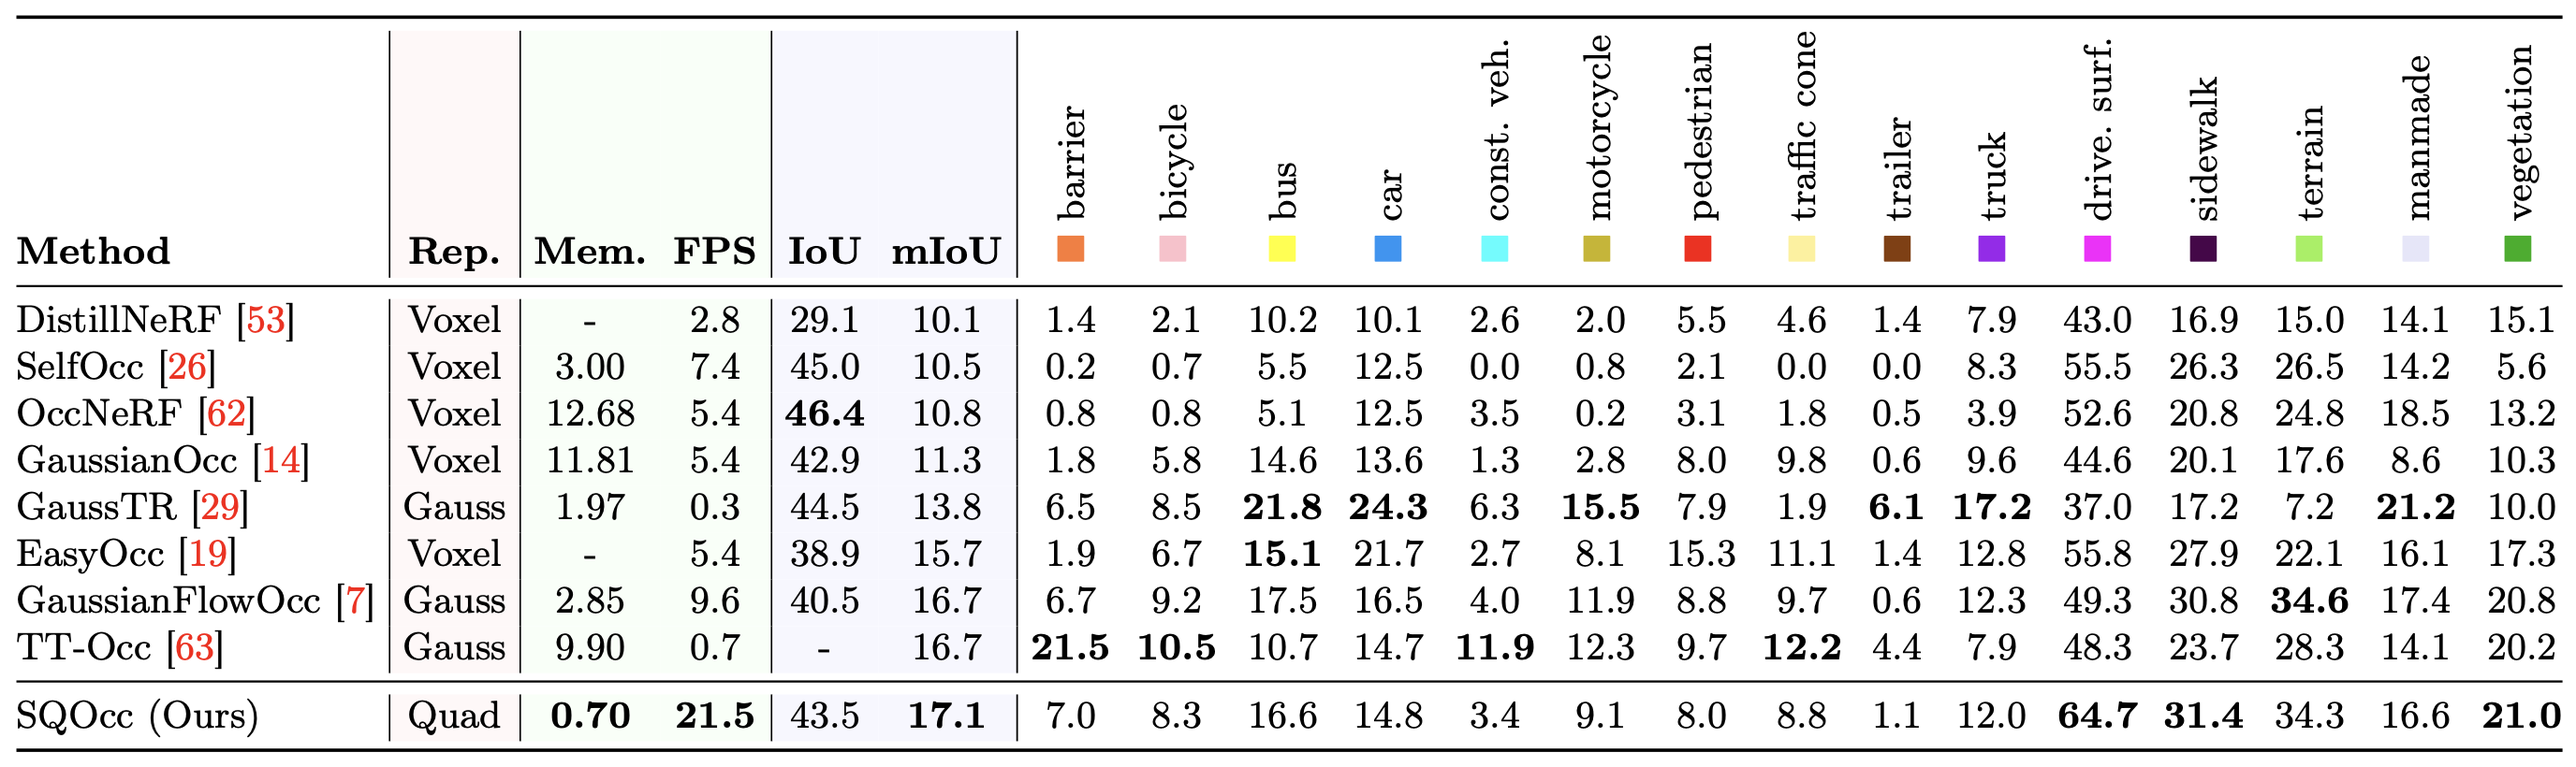
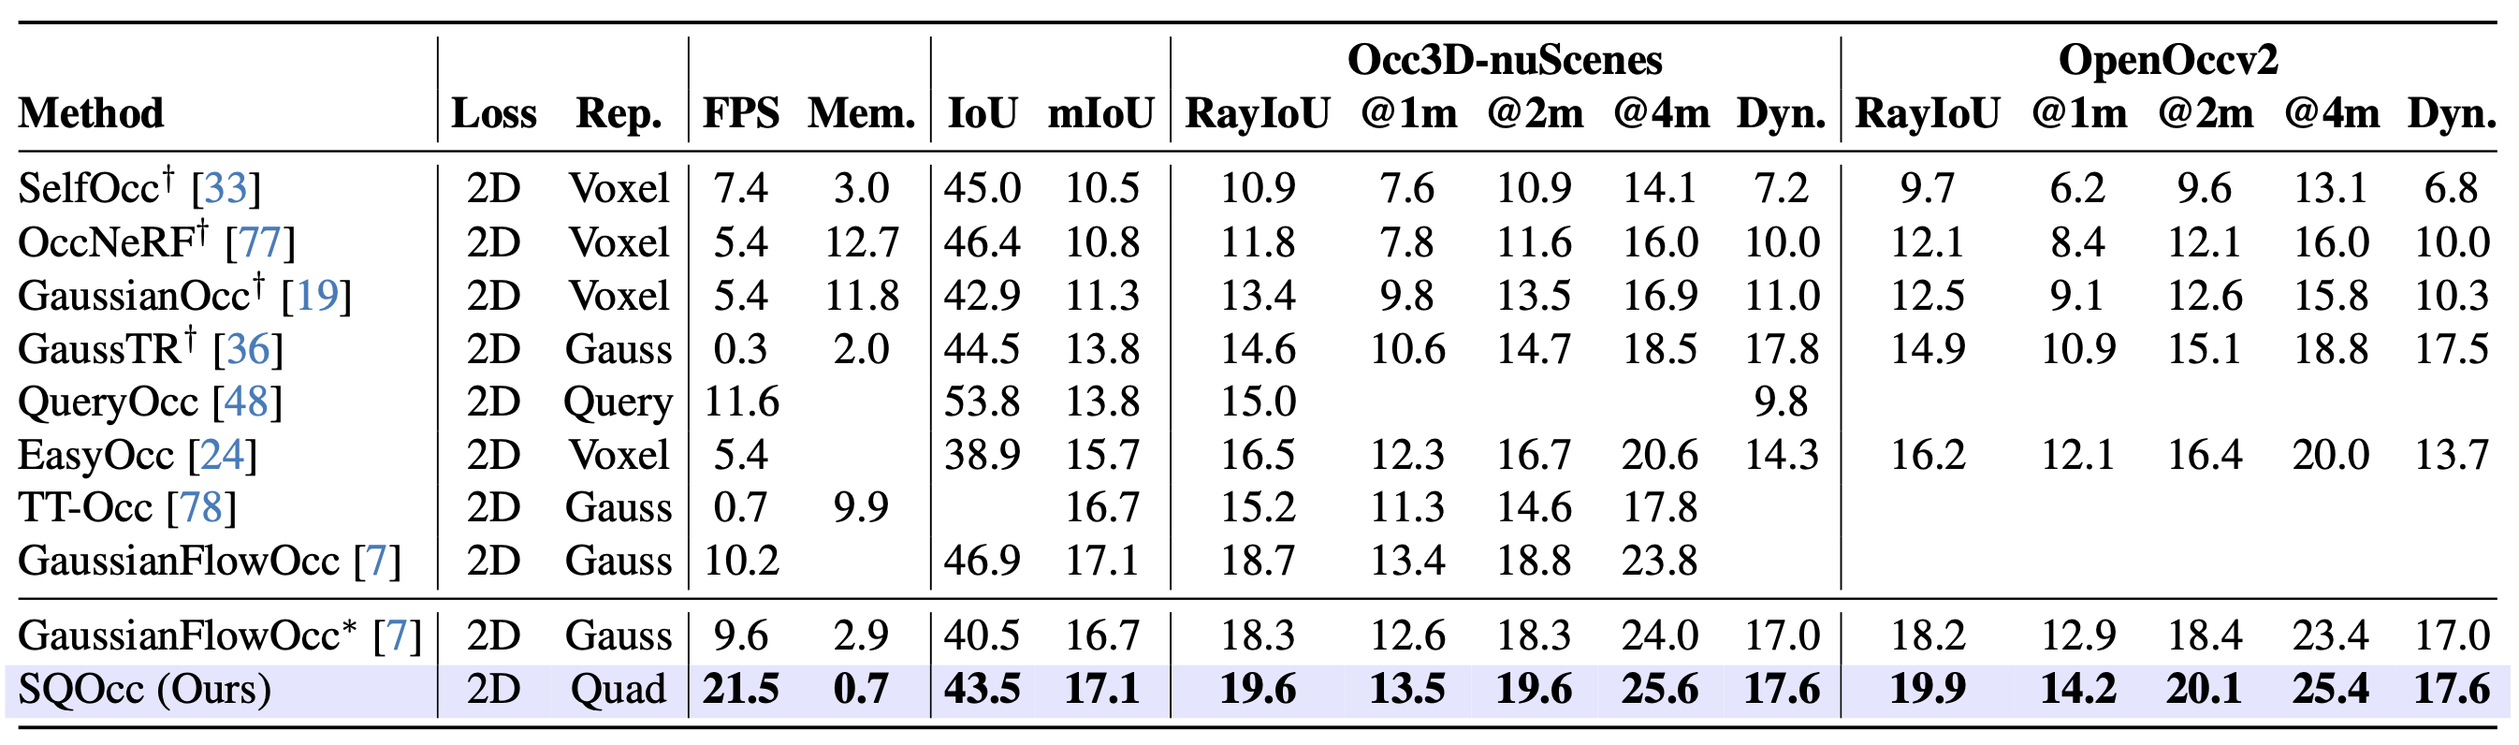
update for new paper

Changed region(s): [[0.0, 0.0, 0.9985, 0.995]]

diff --git a/index.html b/index.html
@@ -40,11 +40,11 @@
           <h1 class="title is-3 publication-title">SuperQuadricOcc: Real-Time Self-Supervised Semantic Occupancy Estimation with Superquadric Volume Rendering</h1>
           <div class="is-size-6 publication-authors">
             <span class="author-block">
-              <a href="https://scholar.google.com/citations?user=3fffnjYAAAAJ&hl=en">Seamie Hayes</a><sup>1,2</sup>,</span>
+              <a href="https://scholar.google.com/citations?user=3fffnjYAAAAJ&hl=en">Seamie Hayes</a><sup>1</sup>,</span>
             <span class="author-block">
-              <a href="https://scholar.google.com/citations?user=iJ3qFGAAAAAJ&hl=en">Alexandre Boulch</a><sup>3</sup>,</span>
+              <a href="https://scholar.google.com/citations?user=iJ3qFGAAAAAJ&hl=en">Alexandre Boulch</a><sup>2</sup>,</span>
             <span class="author-block">
-              <a href="https://scholar.google.com/citations?user=HTfERCsAAAAJ&hl=en">Andrei Bursuc</a><sup>3</sup>,
+              <a href="https://scholar.google.com/citations?user=HTfERCsAAAAJ&hl=en">Andrei Bursuc</a><sup>2</sup>,
             </span>
             <span class="author-block">
               <a href="https://scholar.google.com/citations?user=Ku6jvh0AAAAJ&hl=en">Reenu Mohandas</a><sup>1</sup>,
@@ -56,14 +56,13 @@
               <a href="https://scholar.google.com/citations?user=dDgm87sAAAAJ&hl=en">Tim Brophy</a><sup>1</sup>,
             </span>
             <span class="author-block">
-              <a href="https://scholar.google.com/citations?user=aH6w8VcAAAAJ&hl=en">Ciaran Eising</a><sup>1,2</sup>
+              <a href="https://scholar.google.com/citations?user=aH6w8VcAAAAJ&hl=en">Ciaran Eising</a><sup>1</sup>
             </span>
           </div>
 
           <div class="is-size-6 publication-authors">
-            <span class="author-block"><sup>1</sup>D²iCE Research Centre, University of Limerick,</span>
-            <span class="author-block"><sup>2</sup>Taighde Éireann - Research Ireland</span>
-            <span class="author-block"><sup>3</sup>Valeo.ai</span>
+            <span class="author-block"><sup>1</sup>University of Limerick,</span>
+            <span class="author-block"><sup>2</sup>Valeo.ai</span>
           </div>
 
           <div class="column has-text-centered">
@@ -141,13 +140,14 @@
           Self-supervision for semantic occupancy estimation is appealing as it removes the labour-intensive manual annotation,
           thus allowing one to scale to larger autonomous driving datasets. Superquadrics offer an expressive shape family very
           suitable for this task, yet their deployment in a self-supervised setting has been hindered by the lack of efficient
-          rendering methods to bridge the 3D scene representation and 2D training pseudo-labels. To address this, we introduce
+          rendering methods to bridge the 3D scene representation with 2D training pseudo-labels. To address this, we introduce
           SuperQuadricOcc, the first self-supervised occupancy model to leverage superquadrics for scene representation. To
           overcome the rendering limitation, we propose a real-time volume renderer that preserves the fidelity of the
           superquadric shape during rendering. It relies on spatial superquadric–voxel indexing, restricting each ray sample to
           query only nearby superquadrics, thereby greatly reducing memory usage and computational cost. Using drastically fewer
-          primitives than previous Gaussian-based methods, SuperQuadricOcc achieves state-of-the-art performance on the
-          Occ3D-nuScenes dataset, while running at real-time inference speeds with substantially reduced memory footprint.
+          primitives than prior Gaussian-based methods, SuperQuadricOcc achieves state-of-the-art RayIoU on Occ3D-nuScenes with
+          real-time inference and a substantially reduced memory footprint, while also outperforming Gaussian-based baselines on
+          downstream occupancy forecasting and trajectory estimation.
           </p>
         </div>
       </div>
@@ -211,29 +211,28 @@
       <h2 class="title">Results</h2>
   
       <div class="subsection" style="margin-bottom: 2rem;">
-        <h3 style="font-size: 1.25rem;">Main Results</h3>
+        <h3 style="font-size: 1.25rem;">Semantic Occupancy Estimation</h3>
         <p>
-          On the Occ3D-nuScenes dataset, SuperQuadricOcc achieves state-of-the-art mIoU, surpassing previous methods based on
-          voxel or Gaussian scene representations. Furthermore, the superquadric representation enables real-time inference with
-          low memory usage of just 0.70 GB, more than doubling FPS while halving memory usage compared to prior methods. For the
-          RayIoU metric, we again achieve state-of-the-art results, which is highlighted in the paper.
+          On the Occ3D-nuScenes and OpenOccv2 datasets, SuperQuadricOcc surpasses previous methods based on
+          voxel or Gaussian scene representations on both mIoU and RayIoU metrics, displaying the methods ability
+          to accurately capture the scene geometry and semantics.Furthermore, the superquadric representation enables real-time inference with
+          low memory usage of just 0.70 GB, more than doubling FPS while halving memory usage compared to prior methods.
         </p>
         <figure class="image">
-          <img src="static/images/results.png" alt="Quantitative Results">
+          <img src="static/images/results.png" alt="Quantitative Results" style="width:100%; height: auto;">
         </figure>
       </div>
   
       <div class="subsection">
-        <h3 style="font-size: 1.25rem;">Depth Estimation</h3>
+        <h3 style="font-size: 1.25rem;">Downstream Tasks</h3>
         <p>
-          For depth estimation, we compare our novel rendering method, SQOcc-R, against three other superquadric rendering
-          approaches as well as existing depth estimation models. SQOcc-R outperforms the other superquadric renderers due to the
-          accuracy of volume rendering, which avoids lossy approximations of the superquadric shape. Furthermore, our method
-          achieves state-of-the-art results on the Abs Rel and Sq Rel metrics across all compared methods, highlighting the
-          effectiveness of superquadrics for scene representation and downstream tasks.
+          For occupancy forecasting and trajectory estimation, SuperQuadricOcc outperforms the Gaussian-based
+          GaussianFlowOcc, demonstrating the effectiveness of the superquadric representation. Namely, for trajectory estimation, the compactness of
+          superquadrics permits less collisions (CR metric), suggesting that the compact superquadric representation better preserves temporally useful free-space and object-extent
+          structure than a larger set of local Gaussian primitives.
         </p>
           <figure class="image">
-            <img src="static/images/depth.png" alt="Qualitative Results" style="width:80%; height: auto;">
+            <img src="static/images/downstream.png" alt="Qualitative Results" style="width:100%; height: auto;">
           </figure>
       </div>
   
@@ -244,12 +243,15 @@
 <section class="section" id="BibTeX">
   <div class="container is-max-desktop content">
     <h2 class="title">BibTeX</h2>
-    <pre><code>@article{hayes2025superquadricocc,
-    title={SuperQuadricOcc: Multi-Layer Gaussian Approximation of Superquadrics for Real-Time Self-Supervised Occupancy
-    Estimation},
-    author={Hayes, Seamie and Mohandas, Reenu and Brophy, Tim and Boulch, Alexandre and Sistu, Ganesh and Eising, Ciaran},
-    journal={arXiv preprint arXiv:2511.17361},
-    year={2025}
+    <pre><code>@misc{hayes2026superquadricoccrealtimeselfsupervisedsemantic,
+    title={SuperQuadricOcc: Real-Time Self-Supervised Semantic Occupancy Estimation with Superquadric Volume Rendering},
+    author={Seamie Hayes and Alexandre Boulch and Andrei Bursuc and Reenu Mohandas and Ganesh Sistu and Tim Brophy and
+    Ciaran Eising},
+    year={2026},
+    eprint={2511.17361},
+    archivePrefix={arXiv},
+    primaryClass={cs.CV},
+    url={https://arxiv.org/abs/2511.17361},
     }</code></pre>
   </div>
 </section>
